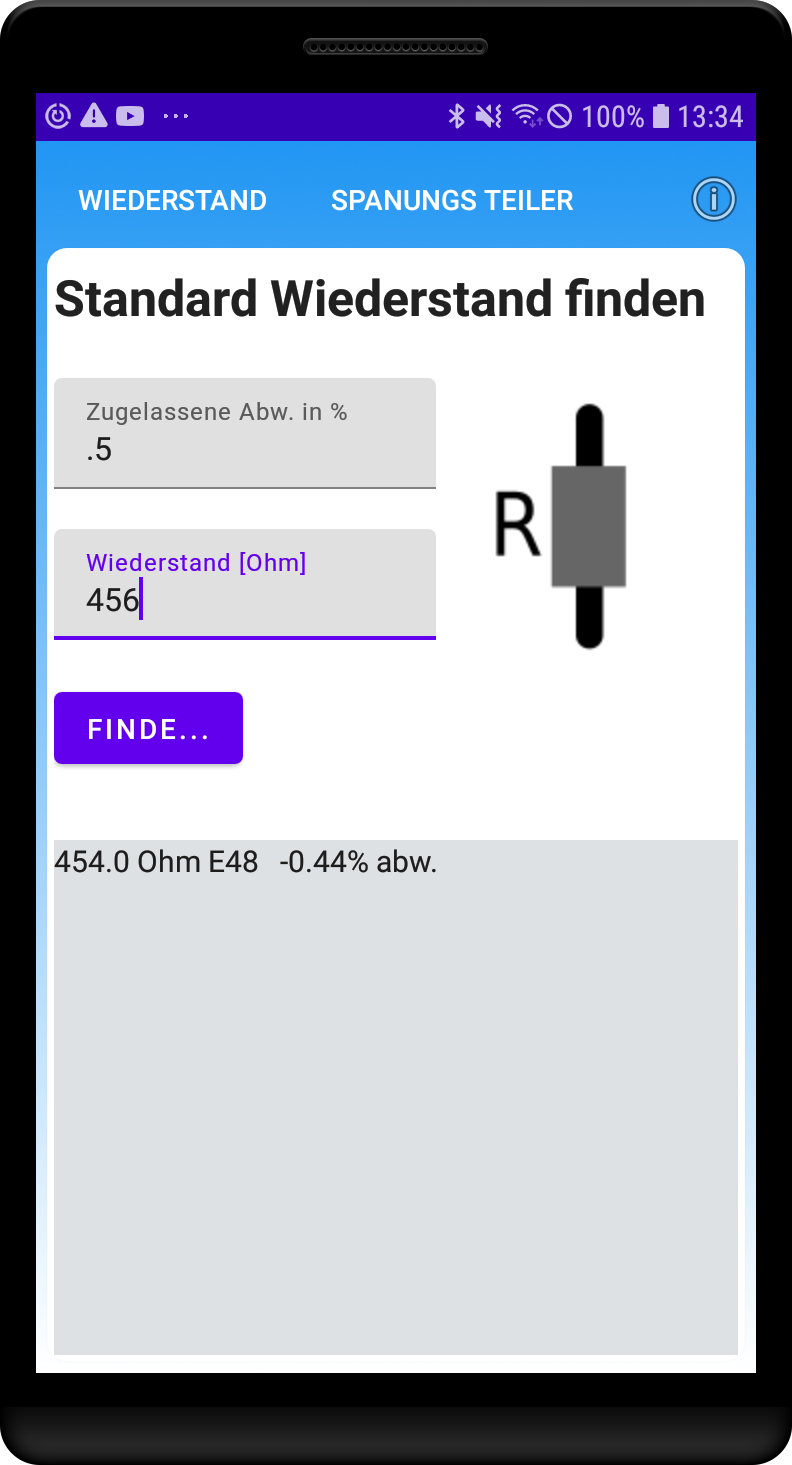
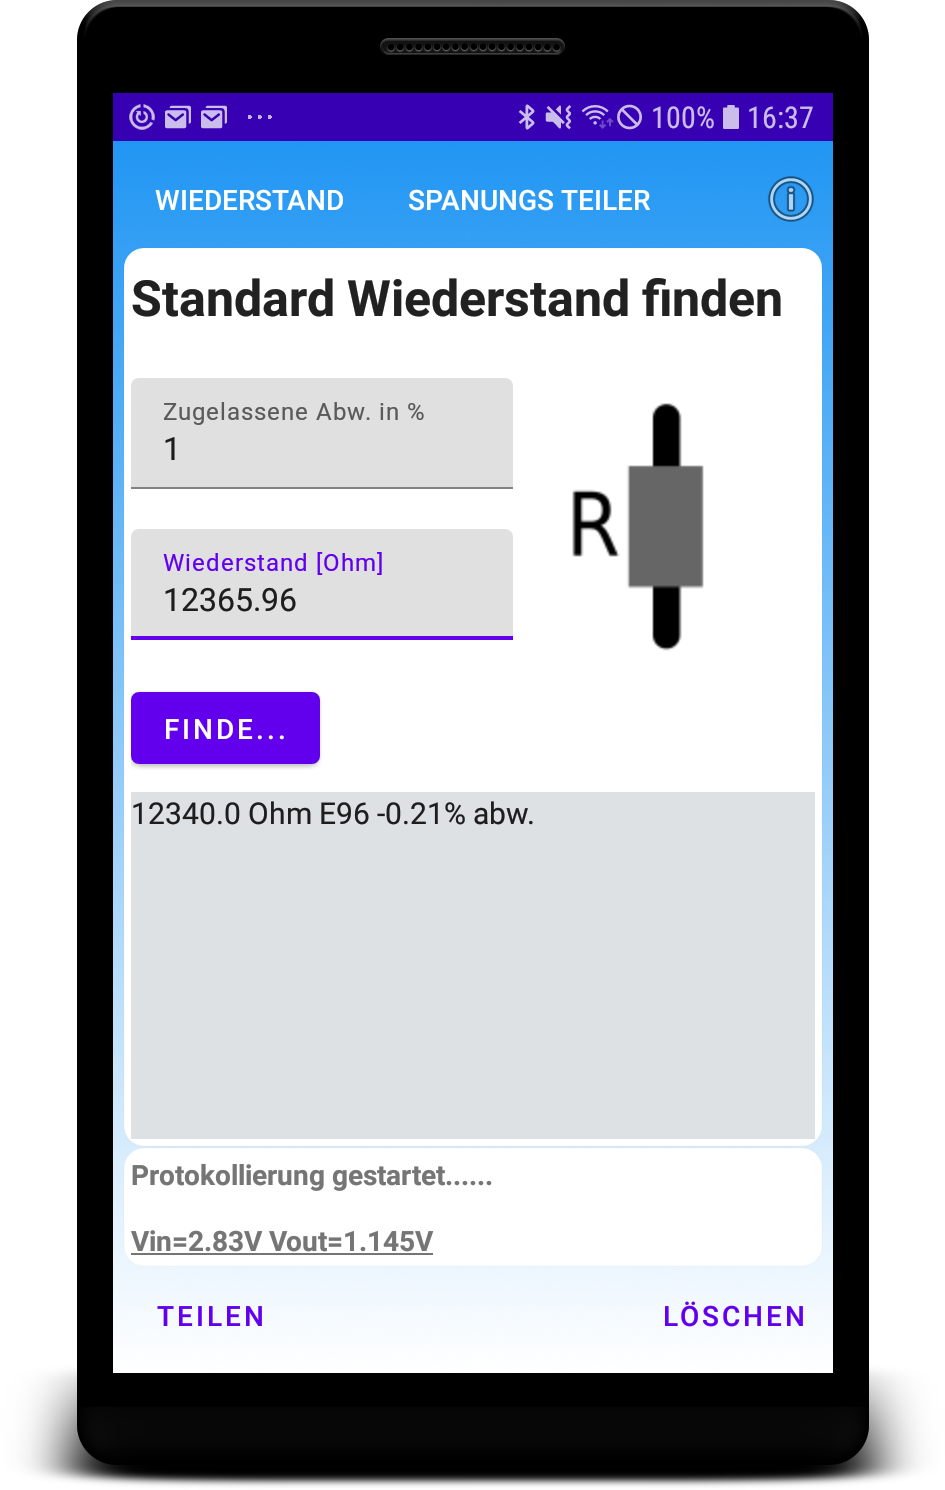
Updated UI

diff --git a/app/src/main/java/com/berthold/voltagedivider/MainActivity.java b/app/src/main/java/com/berthold/voltagedivider/MainActivity.java
@@ -1,5 +1,6 @@
 package com.berthold.voltagedivider;
 
+import android.content.Intent;
 import android.os.Bundle;
 
 import com.google.android.material.floatingactionbutton.FloatingActionButton;
@@ -8,23 +9,26 @@ import com.google.android.material.snackbar.Snackbar;
 import androidx.annotation.Nullable;
 import androidx.appcompat.app.AppCompatActivity;
 import androidx.appcompat.widget.Toolbar;
+import androidx.core.text.HtmlCompat;
 import androidx.lifecycle.Observer;
+import androidx.lifecycle.ViewModel;
 import androidx.lifecycle.ViewModelProvider;
 
+import android.text.Html;
+import android.util.Log;
 import android.view.View;
 
 import android.view.Menu;
 import android.view.MenuItem;
 import android.widget.Button;
 import android.widget.ImageView;
+import android.widget.TextView;
 
 public class MainActivity extends AppCompatActivity {
 
+    public MainViewModel mainViewModel;
     // Debug
     private String tag;
-
-    // View model
-    private MainViewModel mainViewModel;
 
     @Override
     protected void onCreate(Bundle savedInstanceState) {
@@ -34,6 +38,8 @@ public class MainActivity extends AppCompatActivity {
         // Debug
         tag = getClass().getSimpleName();
         Long time = System.currentTimeMillis();
+
+        mainViewModel = new ViewModelProvider(this).get(MainViewModel.class);
 
         ///////////////////////////////////////////////////////////////////////////////////////////////////////////////////////////////
         // UI
@@ -55,20 +61,44 @@ public class MainActivity extends AppCompatActivity {
             }
         });
 
-       ImageView showInfo=findViewById(R.id.info_fragment_show_info);
-       showInfo.setOnClickListener(new View.OnClickListener() {
-           @Override
-           public void onClick(View view) {
-               if (!mainViewModel.currentGFragmentShown.getValue().equals("Info"))
-                   mainViewModel.currentGFragmentShown.setValue("Info");
-           }
-       });
+        ImageView showInfo = findViewById(R.id.info_fragment_show_info);
+        showInfo.setOnClickListener(new View.OnClickListener() {
+            @Override
+            public void onClick(View view) {
+                if (!mainViewModel.currentGFragmentShown.getValue().equals("Info"))
+                    mainViewModel.currentGFragmentShown.setValue("Info");
+            }
+        });
 
-        ///////////////////////////////////////////////////////////////////////////////////////////////////////////////////////////////
-        // View model and it's observers
+        TextView protocolView = findViewById(R.id.protocol_view);
         //
-        mainViewModel = new ViewModelProvider(this).get(MainViewModel.class);
+        // clear the protocol view....
+        //
+        Button clearProtocol=findViewById(R.id.clear_protocol);
+        clearProtocol.setOnClickListener(new View.OnClickListener() {
+            @Override
+            public void onClick(View view) {
+                protocolView.setText("");
+            }
+        });
 
+        //
+        // Share the protocol...
+        //
+        Button shareProtocol=findViewById(R.id.share_protocol);
+        shareProtocol.setOnClickListener(new View.OnClickListener() {
+            @Override
+            public void onClick(View view) {
+                Intent sharingIntent = new Intent(Intent.ACTION_SEND);
+
+                sharingIntent.setType("text/html");
+                sharingIntent.putExtra(android.content.Intent.EXTRA_TEXT, Html.fromHtml("<p>"+protocolView.getText().toString()+"</p>"));
+                startActivity(Intent.createChooser(sharingIntent, "Share using"));
+            }
+        });
+
+        /////////////////////////////////////////////////////////////////////////////////////////////////////////////////////////////////
+        // Observers
         //
         // Gets and displays the current fragment (e.g. calculate voltage divider, find resistor)
         // inside the appropriate fragment container.
@@ -102,15 +132,14 @@ public class MainActivity extends AppCompatActivity {
         };
         mainViewModel.getCurrentGFragmentShown().observe(this, fragmentCurtlyShownObserver);
 
-
-        /////////////////////////////////////////////////////////////////////////////////////////////////////////////////////////////////
-        // Show protocol fragment
         //
-        if (savedInstanceState == null) {
-
-            getSupportFragmentManager().beginTransaction()
-                    .replace(R.id.fragment_protocol, FragmentProtocol.newInstance())
-                    .commitNow();
-        }
+        //  Updates the protocol view
+        //
+        mainViewModel.getProtokollOutput().observe(this, new Observer<String>() {
+            @Override
+            public void onChanged(String s) {
+                protocolView.append(HtmlCompat.fromHtml(s,0));
+            }
+        });
     }
 }

diff --git a/app/src/main/java/com/berthold/voltagedivider/FragmentDividerModel.java b/app/src/main/java/com/berthold/voltagedivider/FragmentDividerModel.java
@@ -28,7 +28,7 @@ public class FragmentDividerModel extends ViewModel {
     //
     // This is an unique identifier for each thread
     // trying to find a solution for a voltage divider.
-    public long timestampOfLastCalc,timeStampSolAvailable;
+    public long timestampOfLastCalc, timeStampSolAvailable;
 
     //
     // The found solution.
@@ -82,7 +82,6 @@ public class FragmentDividerModel extends ViewModel {
             @Override
             public void run() {
 
-                currentSolutionShown.postValue("Suche....");
                 indexOfSolutionCurrentlyShown = 0;
                 result = Divider.findResistors(vIn, vOut);
 
@@ -93,8 +92,9 @@ public class FragmentDividerModel extends ViewModel {
 
                     if (result.hasResult()) {
                         currentSolutionShown.postValue(
-                                // Todo Why does result.getBest... not work????
-                                buildSolutiontext(result.getListOfResults().get(0))); // Best Result always on Top!
+                                buildSolutiontext(
+                                        result.getListOfResults().get(0))); // Best Result always on Top! Todo Why does result.getBest... not work????
+
                         numberOfSolAndIndexOfCurrentlyShown.postValue(
                                 buildNumberOfSolFoundAndIndexOfCurrent(result));
                     } else {
@@ -111,11 +111,11 @@ public class FragmentDividerModel extends ViewModel {
      * Shows the next available solution-
      */
     public void getAndShowNextSolution() {
-        if (indexOfSolutionCurrentlyShown < result.getListOfResults().size()-1 && result.getListOfResults().size() != 0)
+        if (indexOfSolutionCurrentlyShown < result.getListOfResults().size() - 1 && result.getListOfResults().size() != 0)
             indexOfSolutionCurrentlyShown++;
 
-        DividerResult r=null;
-        if (result != null){
+        DividerResult r = null;
+        if (result != null) {
             r = result.getListOfResults().get(indexOfSolutionCurrentlyShown);
             String nextSolution = buildSolutiontext(r);
             currentSolutionShown.postValue(nextSolution);
@@ -130,7 +130,7 @@ public class FragmentDividerModel extends ViewModel {
         if (indexOfSolutionCurrentlyShown > 0)
             indexOfSolutionCurrentlyShown--;
 
-        DividerResult r=null;
+        DividerResult r = null;
         if (result != null) {
             r = result.getListOfResults().get(indexOfSolutionCurrentlyShown);
             String nextSolution = buildSolutiontext(r);
@@ -150,19 +150,19 @@ public class FragmentDividerModel extends ViewModel {
         StringBuilder solution = new StringBuilder();
 
         try {
-            solution.append("Vin=" + result.getInputVoltage_V() + "V     Vout=" + result.getOutputVoltage_V() + "V\n\n");
+            solution.append("<b><u>Vin=" + result.getInputVoltage_V() + "V     Vout=" + result.getOutputVoltage_V() + "V</b></u><br>");
 
             if (result.hasResult()) {
 
-                double durationOfCalcInSeconds = (timeStampSolAvailable - timestampOfLastCalc)/1000 ;
-                
+                double durationOfCalcInSeconds = (timeStampSolAvailable - timestampOfLastCalc) / 1000;
+
                 solution.append(
-                        "R1=" + r.getR1_V() + " Ohm (E" + r.getR1FoundInSeries() + ")\n" +
-                                "R2=" + r.getR2_V() + " Ohm (E" + r.getR2FoundInSeries() + ")\n" +
-                                "Vout=" + r.getvOutCalc_V() + " V     Fehler:" +
-                                r.getActualErrorInOutputVoltage_P() + "%\n\n" +
+                        "R1=" + r.getR1_V() + " Ohm (E" + r.getR1FoundInSeries() + ")<br>" +
+                                "R2=" + r.getR2_V() + " Ohm (E" + r.getR2FoundInSeries() + ")<br>" +
+                                "<i>Vout=" + r.getvOutCalc_V() + " V     Fehler:" +
+                                r.getActualErrorInOutputVoltage_P() + "%</i><br>" +
                                 "Dauer:" + durationOfCalcInSeconds + " Sekunden");
-                solution.append("\n");
+                solution.append("<p>");
             } else
                 solution.append("Keine Lösung gefunden.");
         } catch (NumberFormatException e) {
@@ -178,6 +178,6 @@ public class FragmentDividerModel extends ViewModel {
      * for the calculated divider and the index of the solution currently shown....
      */
     public String buildNumberOfSolFoundAndIndexOfCurrent(DividerResults r) {
-        return ("Zeige:" + indexOfSolutionCurrentlyShown + "/" + (r.getListOfResults().size()-1));
+        return ("Zeige:" + indexOfSolutionCurrentlyShown + "/" + (r.getListOfResults().size() - 1));
     }
 }

diff --git a/app/src/main/java/com/berthold/voltagedivider/FragmentFindResistor.java b/app/src/main/java/com/berthold/voltagedivider/FragmentFindResistor.java
@@ -10,6 +10,7 @@ import android.widget.EditText;
 import android.widget.TextView;
 
 import androidx.annotation.NonNull;
+import androidx.core.text.HtmlCompat;
 import androidx.fragment.app.Fragment;
 import androidx.lifecycle.Observer;
 import androidx.lifecycle.ViewModelProviders;
@@ -85,11 +86,11 @@ public class FragmentFindResistor extends Fragment {
             @Override
             public void onChanged(String s) {
 
-                standardValueAndSeriesView.setText(s);
+                standardValueAndSeriesView.setText(HtmlCompat.fromHtml(s,0));
 
                 // Protocol output
-                String sol="Gesucht:"+resitorValueInputView.getText().toString()+" Ohm. zul. abw.:"+errorInPercentView.getText()+"%\n";
-                mainViewModel.protokollOutput.setValue(sol+"="+s);
+                String sol="<b><u>Gesucht:"+resitorValueInputView.getText().toString()+" Ohm. zul. abw.:"+errorInPercentView.getText()+"%</b></u><br>";
+                mainViewModel.protokollOutput.setValue(sol+"="+s+"<p>");
             }
         });
     }

diff --git a/app/src/main/java/com/berthold/voltagedivider/FragmentDivider.java b/app/src/main/java/com/berthold/voltagedivider/FragmentDivider.java
@@ -10,6 +10,7 @@ import android.widget.ProgressBar;
 import android.widget.TextView;
 
 import androidx.annotation.NonNull;
+import androidx.core.text.HtmlCompat;
 import androidx.fragment.app.Fragment;
 import androidx.lifecycle.Observer;
 import androidx.lifecycle.ViewModelProviders;
@@ -111,8 +112,8 @@ public class FragmentDivider extends Fragment {
         fragmentDividerModel.getCurrentSolutionShown().observe(getViewLifecycleOwner(), new Observer<String>() {
             @Override
             public void onChanged(String s){
-                dividerResultView.setText(s);
-                mainViewModel.protokollOutput.setValue(s);
+                dividerResultView.setText(HtmlCompat.fromHtml(s,0));
+                mainViewModel.protokollOutput.setValue(HTMLTools.makeSolutionBlockSolutionFound(s));
             }
         });
 

diff --git a/app/src/main/java/com/berthold/voltagedivider/MainViewModel.java b/app/src/main/java/com/berthold/voltagedivider/MainViewModel.java
@@ -1,5 +1,6 @@
 package com.berthold.voltagedivider;
 
+import androidx.core.text.HtmlCompat;
 import androidx.lifecycle.MutableLiveData;
 import androidx.lifecycle.ViewModel;
 
@@ -25,7 +26,7 @@ public class MainViewModel extends ViewModel {
     public MutableLiveData<String> getProtokollOutput(){
         if (protokollOutput==null) {
             protokollOutput = new MutableLiveData<String>();
-            protokollOutput.setValue("Protocol.....");
+            protokollOutput.setValue(HTMLTools.makeHeader("Protokollierung gestartet......<p>"));
         }
         return protokollOutput;
     }

diff --git a/app/src/main/java/com/berthold/voltagedivider/HTMLTools.java b/app/src/main/java/com/berthold/voltagedivider/HTMLTools.java
@@ -1,0 +1,15 @@
+package com.berthold.voltagedivider;
+
+import android.text.Spanned;
+
+import androidx.core.text.HtmlCompat;
+
+public class HTMLTools {
+    public static String makeHeader(String t){
+        return "<b>"+t+"</b>";
+    }
+
+    public static String makeSolutionBlockSolutionFound(String t){
+        return "<p>"+t+"</p>";
+    }
+}

diff --git a/app/src/main/java/com/berthold/voltagedivider/FragmentFindResistorModel.java b/app/src/main/java/com/berthold/voltagedivider/FragmentFindResistorModel.java
@@ -13,7 +13,6 @@ public class FragmentFindResistorModel extends ViewModel {
     //
     public String resistorToBeFoundInput,errorInput;
 
-
     //
     // The found solution.
     //
